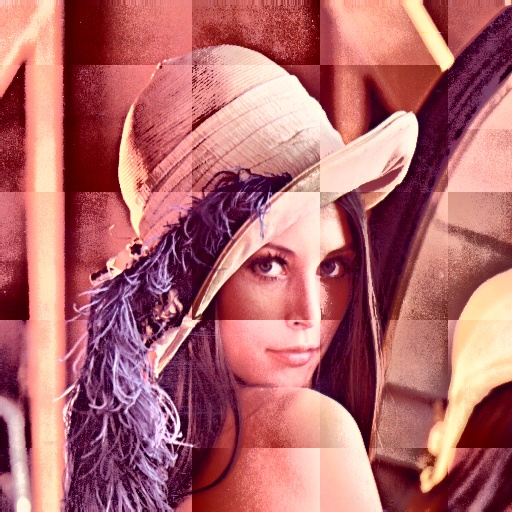
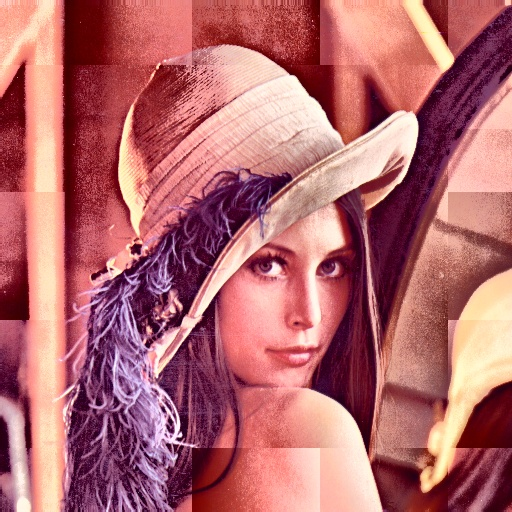
Update: 4. Bug fixed and result generation

diff --git a/CV_Assignment_1/assignment_1_q3_2/main4unit.py b/CV_Assignment_1/assignment_1_q3_2/main4unit.py
@@ -253,8 +253,8 @@ def adaptively_batch_histogram_equalization(img0, cumulative_func, batch):
                 t = (idx1 - (batch_idx1 * batch_height + batch_height / 2)) / batch_height
 
                 img0[idx1][idx2] = (1 - s) * (1 - t) * cumulative_func[batch_idx1][batch_idx2][index] \
-                                   + s * (1 - t) * cumulative_func[batch_idx1 + 1][batch_idx2][index] \
-                                   + (1 - s) * t * cumulative_func[batch_idx1][batch_idx2 + 1][index] \
+                                   + s * (1 - t) * cumulative_func[batch_idx1][batch_idx2 + 1][index] \
+                                   + (1 - s) * t * cumulative_func[batch_idx1 + 1][batch_idx2][index] \
                                    + s * t * cumulative_func[batch_idx1 + 1][batch_idx2 + 1][index]
 
     return img0
